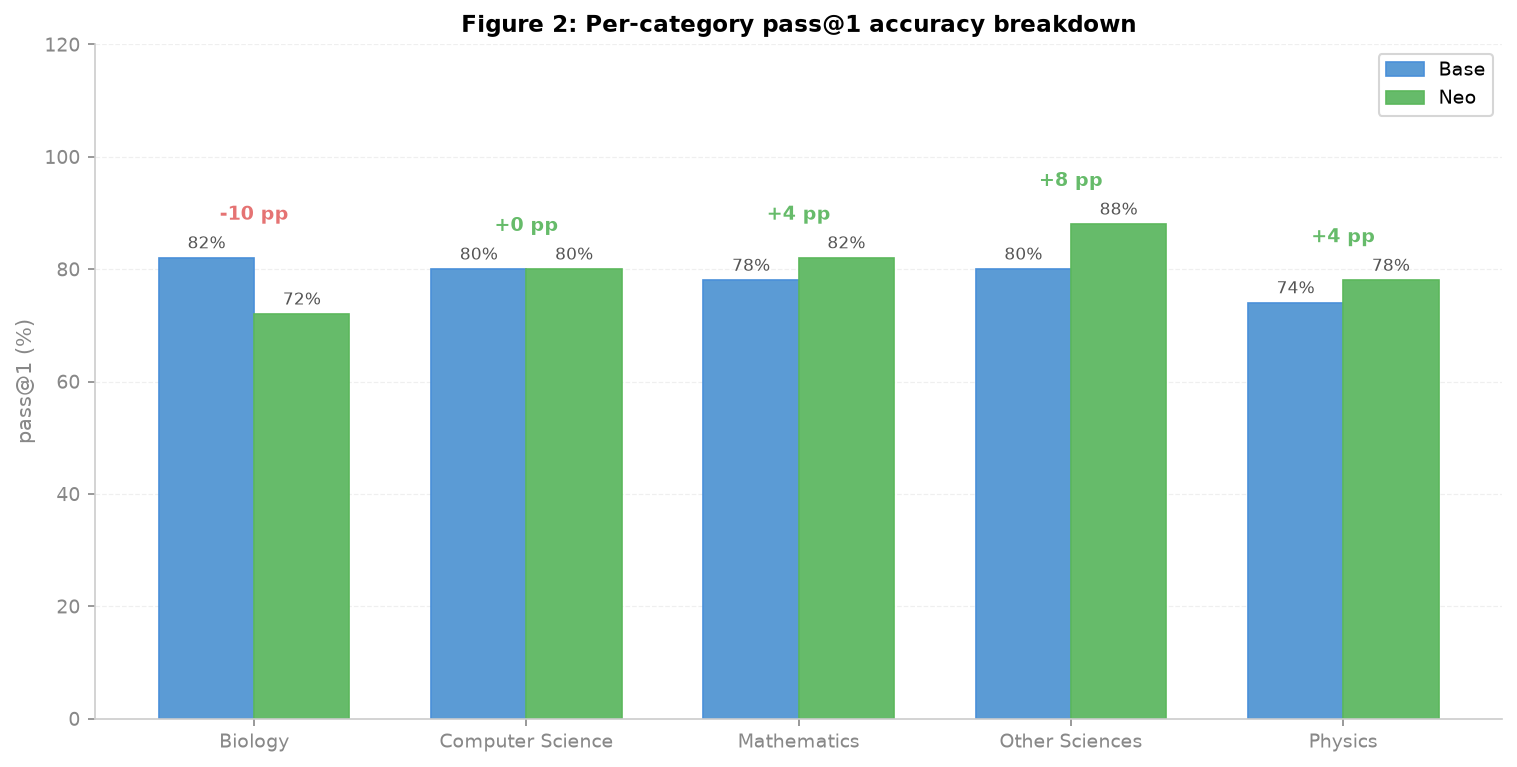
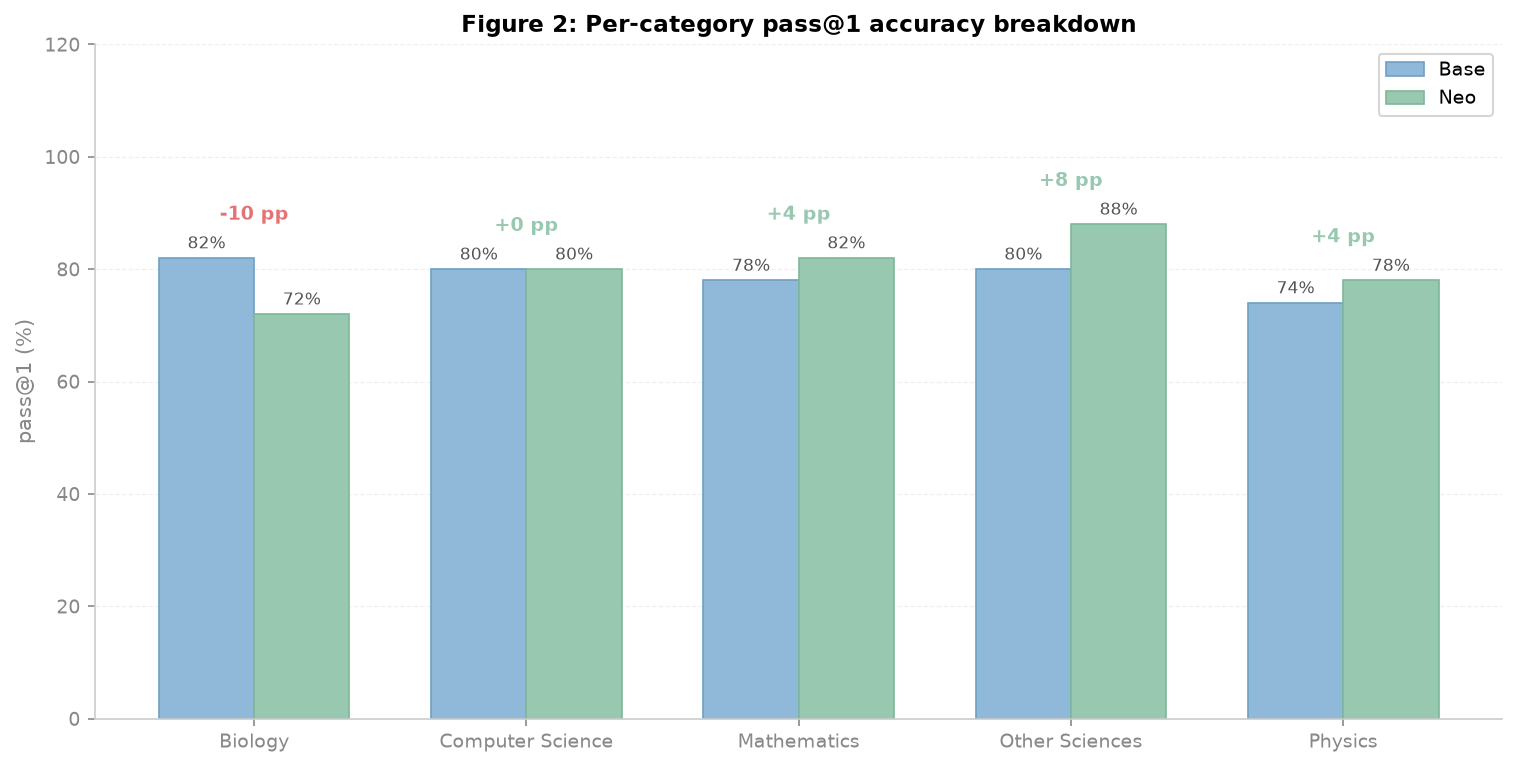
fix: match reference image bar colors
Sampled dominant colors from reference PNGs in tmp/:
- Base blue: #5B9BD5 (rgb 88,152,208) -> #90B8D8 (rgb 144,184,216)
  Reference is noticeably lighter and less saturated.
- Neo green: #66BB6A (rgb 96,184,104) -> #98C8B0 (rgb 152,200,176)
  Reference is lighter with a teal cast (higher blue channel).
Edge colors updated to darker variants of the new base/neo tones.

diff --git a/src/thinker/eval/plotter.py b/src/thinker/eval/plotter.py
@@ -50,11 +50,11 @@ class ComprehensiveAcademicPlotter:
             }
         )
 
-        # ── 柱子颜色：更亮、半透明的学术风格 ──
-        self.c_base = "#5B9BD5"       # 亮蓝
-        self.c_base_edge = "#4A90D9"   # 深一点的蓝（边框）
-        self.c_neo = "#66BB6A"         # 亮绿
-        self.c_neo_edge = "#5CB85C"    # 深一点的绿（边框）
+        # ── 柱子颜色：参考图采样 ──
+        self.c_base = "#90B8D8"       # 浅蓝（参考图采样）
+        self.c_base_edge = "#6E9FC4"   # 深一点的蓝（边框）
+        self.c_neo = "#98C8B0"         # 浅青绿（参考图采样）
+        self.c_neo_edge = "#7DB89A"    # 深一点的绿（边框）
         self.c_neg = "#E57373"         # 柔和红
         self.c_warn = "#FFB74D"        # 柔和橙
 
